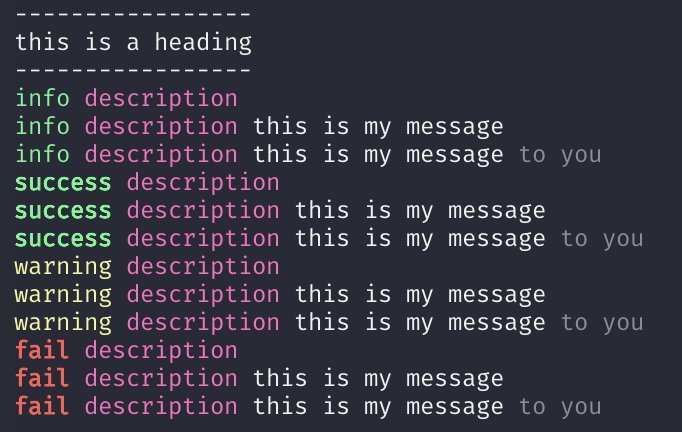
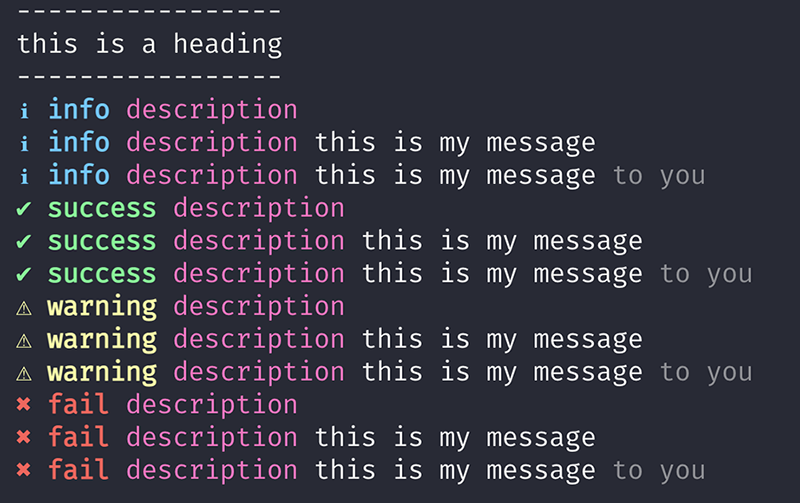
New logging style (#70)
* update styling

* util-cli-reporter v2.0.0

* add demo folder with runnable

* fix test to mock symbols

Changed region(s): [[0.0, 0.1505, 0.9545, 0.963], [0.0, 0.0, 0.3695, 0.1204], [0.8314, 0.5116, 0.9545, 0.5718]]

diff --git a/packages/util-cli-reporter/__tests__/unit/lib/js/reporter.test.js b/packages/util-cli-reporter/__tests__/unit/lib/js/reporter.test.js
@@ -4,8 +4,16 @@
  */
 'use strict';
 
+jest.mock('log-symbols', () => ({
+	info: '',
+	success: '',
+	warning: '',
+	error: ''
+}));
+
 const stripAnsi = require('strip-ansi');
 const reporter = require('../../../../lib/js/reporter');
+
 
 describe('Reporter Basics', () => {
 	test('exports `reporter` as an object', () => {
@@ -37,7 +45,7 @@ describe('Reporter Basics', () => {
 describe('Reporting configuration - no init', () => {
 	const originalLog = console.log;
 	let consoleOutput = '';
-	const mockedLog = output => consoleOutput = stripAnsi(output);
+	const mockedLog = output => consoleOutput = stripAnsi(output).trimStart();
 
 	beforeEach(() => console.log = mockedLog);
 	afterEach(() => {
@@ -84,7 +92,7 @@ describe('Reporting configuration - no init', () => {
 describe('Reporting configuration - no comment', () => {
 	const originalLog = console.log;
 	let consoleOutput = '';
-	const mockedLog = output => consoleOutput = stripAnsi(output);
+	const mockedLog = output => consoleOutput = stripAnsi(output).trimStart();
 
 	beforeEach(() => console.log = mockedLog);
 	afterEach(() => {
@@ -124,7 +132,7 @@ describe('Reporting configuration - no comment', () => {
 describe('Reporting configuration - no message', () => {
 	const originalLog = console.log;
 	let consoleOutput = '';
-	const mockedLog = output => consoleOutput = stripAnsi(output);
+	const mockedLog = output => consoleOutput = stripAnsi(output).trimStart();
 
 	beforeEach(() => console.log = mockedLog);
 	afterEach(() => {
@@ -164,7 +172,7 @@ describe('Reporting configuration - no message', () => {
 describe('Reporting configuration - no message, but comment', () => {
 	const originalLog = console.log;
 	let consoleOutput = '';
-	const mockedLog = output => consoleOutput = stripAnsi(output);
+	const mockedLog = output => consoleOutput = stripAnsi(output).trimStart();
 
 	beforeEach(() => console.log = mockedLog);
 	afterEach(() => {
@@ -204,7 +212,7 @@ describe('Reporting configuration - no message, but comment', () => {
 describe('Reporting configuration - level=title', () => {
 	const originalLog = console.log;
 	let consoleOutput = '';
-	const mockedLog = output => consoleOutput = stripAnsi(output);
+	const mockedLog = output => consoleOutput = stripAnsi(output).trimStart();
 
 	beforeEach(() => {
 		console.log = mockedLog;
@@ -254,7 +262,7 @@ describe('Reporting configuration - level=title', () => {
 describe('Reporting configuration - level=info', () => {
 	const originalLog = console.log;
 	let consoleOutput = '';
-	const mockedLog = output => consoleOutput = stripAnsi(output);
+	const mockedLog = output => consoleOutput = stripAnsi(output).trimStart();
 
 	beforeEach(() => {
 		console.log = mockedLog;
@@ -304,7 +312,7 @@ describe('Reporting configuration - level=info', () => {
 describe('Reporting configuration - level=success', () => {
 	const originalLog = console.log;
 	let consoleOutput = '';
-	const mockedLog = output => consoleOutput = stripAnsi(output);
+	const mockedLog = output => consoleOutput = stripAnsi(output).trimStart();
 
 	beforeEach(() => {
 		console.log = mockedLog;
@@ -354,7 +362,7 @@ describe('Reporting configuration - level=success', () => {
 describe('Reporting configuration - level=warning', () => {
 	const originalLog = console.log;
 	let consoleOutput = '';
-	const mockedLog = output => consoleOutput = stripAnsi(output);
+	const mockedLog = output => consoleOutput = stripAnsi(output).trimStart();
 
 	beforeEach(() => {
 		console.log = mockedLog;
@@ -404,7 +412,7 @@ describe('Reporting configuration - level=warning', () => {
 describe('Reporting configuration - level=fail', () => {
 	const originalLog = console.log;
 	let consoleOutput = '';
-	const mockedLog = output => consoleOutput = stripAnsi(output);
+	const mockedLog = output => consoleOutput = stripAnsi(output).trimStart();
 
 	beforeEach(() => {
 		console.log = mockedLog;
@@ -454,7 +462,7 @@ describe('Reporting configuration - level=fail', () => {
 describe('Reporting configuration - level=none', () => {
 	const originalLog = console.log;
 	let consoleOutput = '';
-	const mockedLog = output => consoleOutput = stripAnsi(output);
+	const mockedLog = output => consoleOutput = stripAnsi(output).trimStart();
 
 	beforeEach(() => {
 		console.log = mockedLog;
@@ -504,7 +512,7 @@ describe('Reporting configuration - level=none', () => {
 describe('Reporting configuration - defaults to title log level when invalid init', () => {
 	const originalLog = console.log;
 	let consoleOutput = '';
-	const mockedLog = output => consoleOutput = stripAnsi(output);
+	const mockedLog = output => consoleOutput = stripAnsi(output).trimStart();
 
 	beforeEach(() => {
 		console.log = mockedLog;
@@ -554,7 +562,7 @@ describe('Reporting configuration - defaults to title log level when invalid ini
 describe('Reporting configuration - defaults to title log level when invalid init[type]', () => {
 	const originalLog = console.log;
 	let consoleOutput = '';
-	const mockedLog = output => consoleOutput = stripAnsi(output);
+	const mockedLog = output => consoleOutput = stripAnsi(output).trimStart();
 
 	beforeEach(() => {
 		console.log = mockedLog;

diff --git a/packages/util-cli-reporter/lib/js/reporter.js b/packages/util-cli-reporter/lib/js/reporter.js
@@ -5,16 +5,25 @@
 'use strict';
 
 const kleur = require('kleur');
+const logSymbols = require('log-symbols');
 
 const report = {};
+
 const colors = {
-	info: kleur.green,
+	info: kleur.blue().bold,
 	success: kleur.green().bold,
-	warning: kleur.yellow,
+	warning: kleur.yellow().bold,
 	fail: kleur.red().bold,
 	description: kleur.magenta,
 	message: kleur.white,
 	comment: kleur.white().dim
+};
+
+const symbols = {
+	info: logSymbols.info,
+	success: logSymbols.success,
+	warning: logSymbols.warning,
+	fail: logSymbols.error
 };
 
 // Logging levels
@@ -34,23 +43,22 @@ let logLevel = 5;
  * Clean whitespace from output
  * Keeps reporter code a little cleaner
  * @private
- * @param {String} string the string to clean
+ * @param {String} text the text string to clean
  * @return {String}
  */
-function cleanWhitespace(string) {
-	return string.replace(/\t+|^\t*\n|\n\t*$/g, '');
+function cleanWhitespace(text) {
+	return text.replace(/\t+|^\t*\n|\n\t*$/g, '');
 }
 
 /**
  * Configure title output
- * With custom separator
  * @private
- * @param {String} string the string to clean
+ * @param {String} text the text string
  * @return {String}
  */
-function configureTitle(string) {
-	const separator = string.split('').fill('-').join('');
-	return `${separator}\n${string}\n${separator}`;
+function configureTitle(text) {
+	const separator = text.split('').fill('-').join('');
+	return `${separator}\n${text}\n${separator}`;
 }
 
 /**
@@ -63,7 +71,7 @@ function configureTitle(string) {
  * @return {String}
  */
 function configureOutput(type, description, message, comment) {
-	type = colors[type](type);
+	type = colors[type](`${symbols[type]} ${type}`);
 	description = colors.description(description);
 	message = (message) ? colors.message(message) : null;
 	comment = (comment) ? colors.comment(comment) : null;

diff --git a/packages/util-cli-reporter/demo/index.js b/packages/util-cli-reporter/demo/index.js
@@ -1,0 +1,27 @@
+/**
+ * index.js
+ * Logging demo
+ */
+'use strict';
+
+const reporter = require('../lib/js/reporter');
+
+reporter.init('title');
+
+reporter.title('this is a heading');
+
+reporter.info('description');
+reporter.info('description', 'this is my message');
+reporter.info('description', 'this is my message', 'to you');
+
+reporter.success('description');
+reporter.success('description', 'this is my message');
+reporter.success('description', 'this is my message', 'to you');
+
+reporter.warning('description');
+reporter.warning('description', 'this is my message');
+reporter.warning('description', 'this is my message', 'to you');
+
+reporter.fail('description');
+reporter.fail('description', 'this is my message');
+reporter.fail('description', 'this is my message', 'to you');

diff --git a/packages/util-cli-reporter/README.md b/packages/util-cli-reporter/README.md
@@ -40,6 +40,8 @@ reporter.fail('description', 'this is my message');
 reporter.fail('description', 'this is my message', 'to you');
 ```
 
+> NOTE: you can run this demo from [demo/index.js](./demo/index.js)
+
 ### Logging levels
 
 By running the `reporter.init()` function you can set the following logging levels

diff --git a/packages/util-cli-reporter/HISTORY.md b/packages/util-cli-reporter/HISTORY.md
@@ -1,5 +1,10 @@
 # History
 
+## 2.0.0 (2021-12-28)
+	* FEATURE: add icons
+	* Change info color from green to blue
+	* Bold types
+
 ## 1.2.1 (2020-10-05)
 	* BUG: Fallback to default when init() type is not String
 
